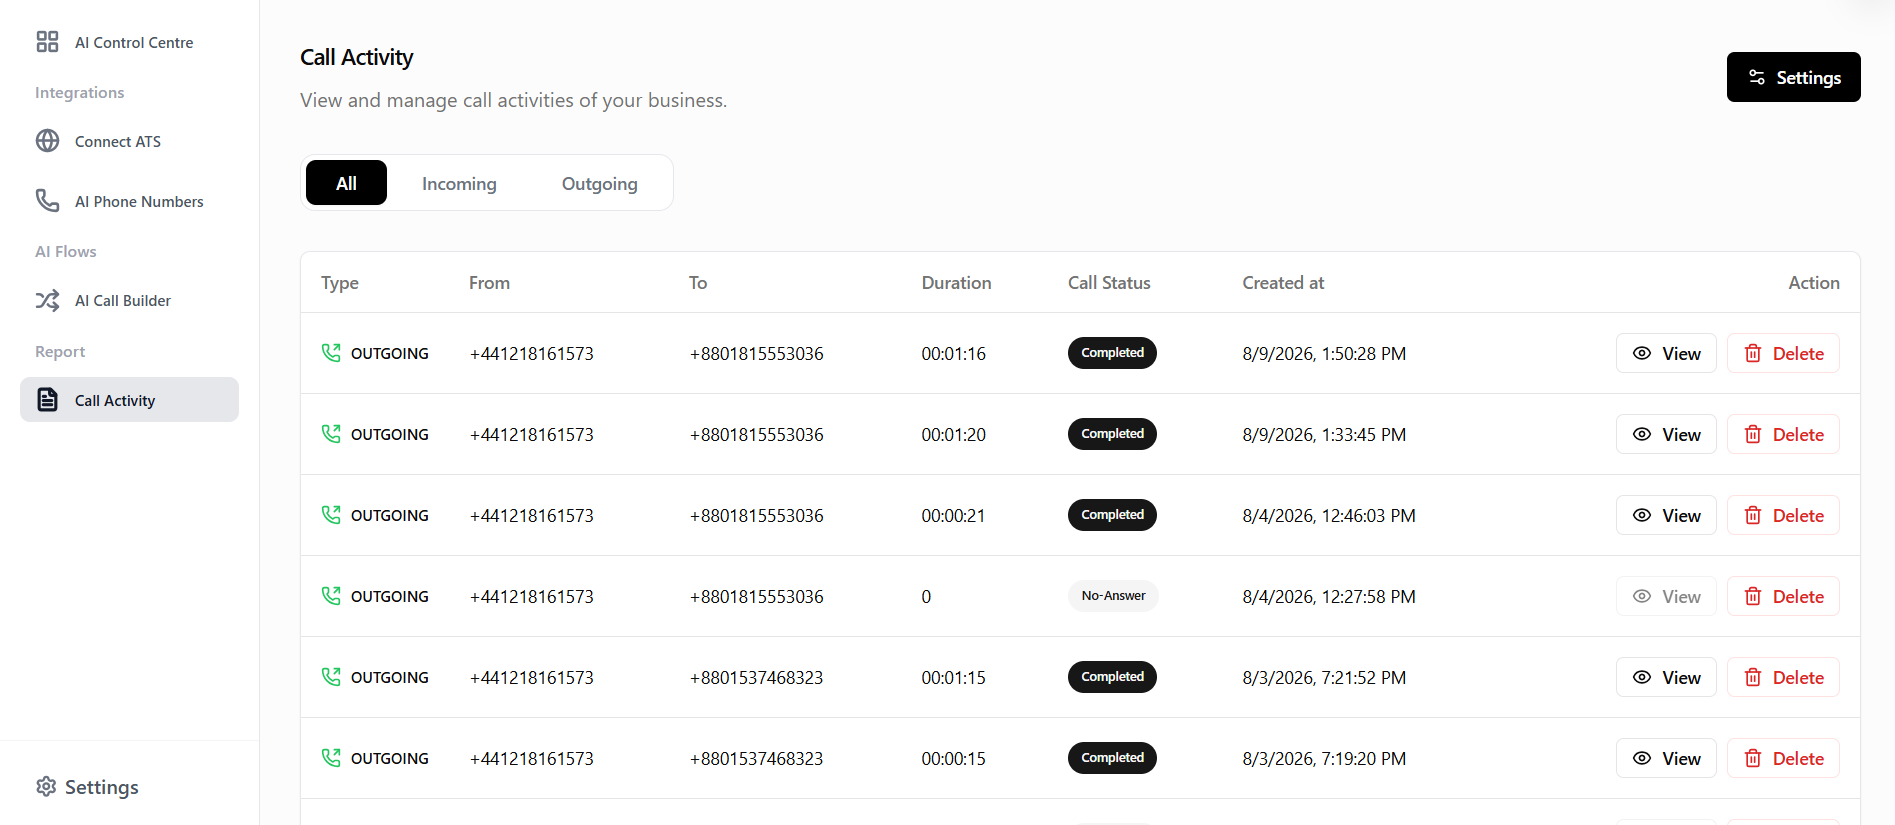
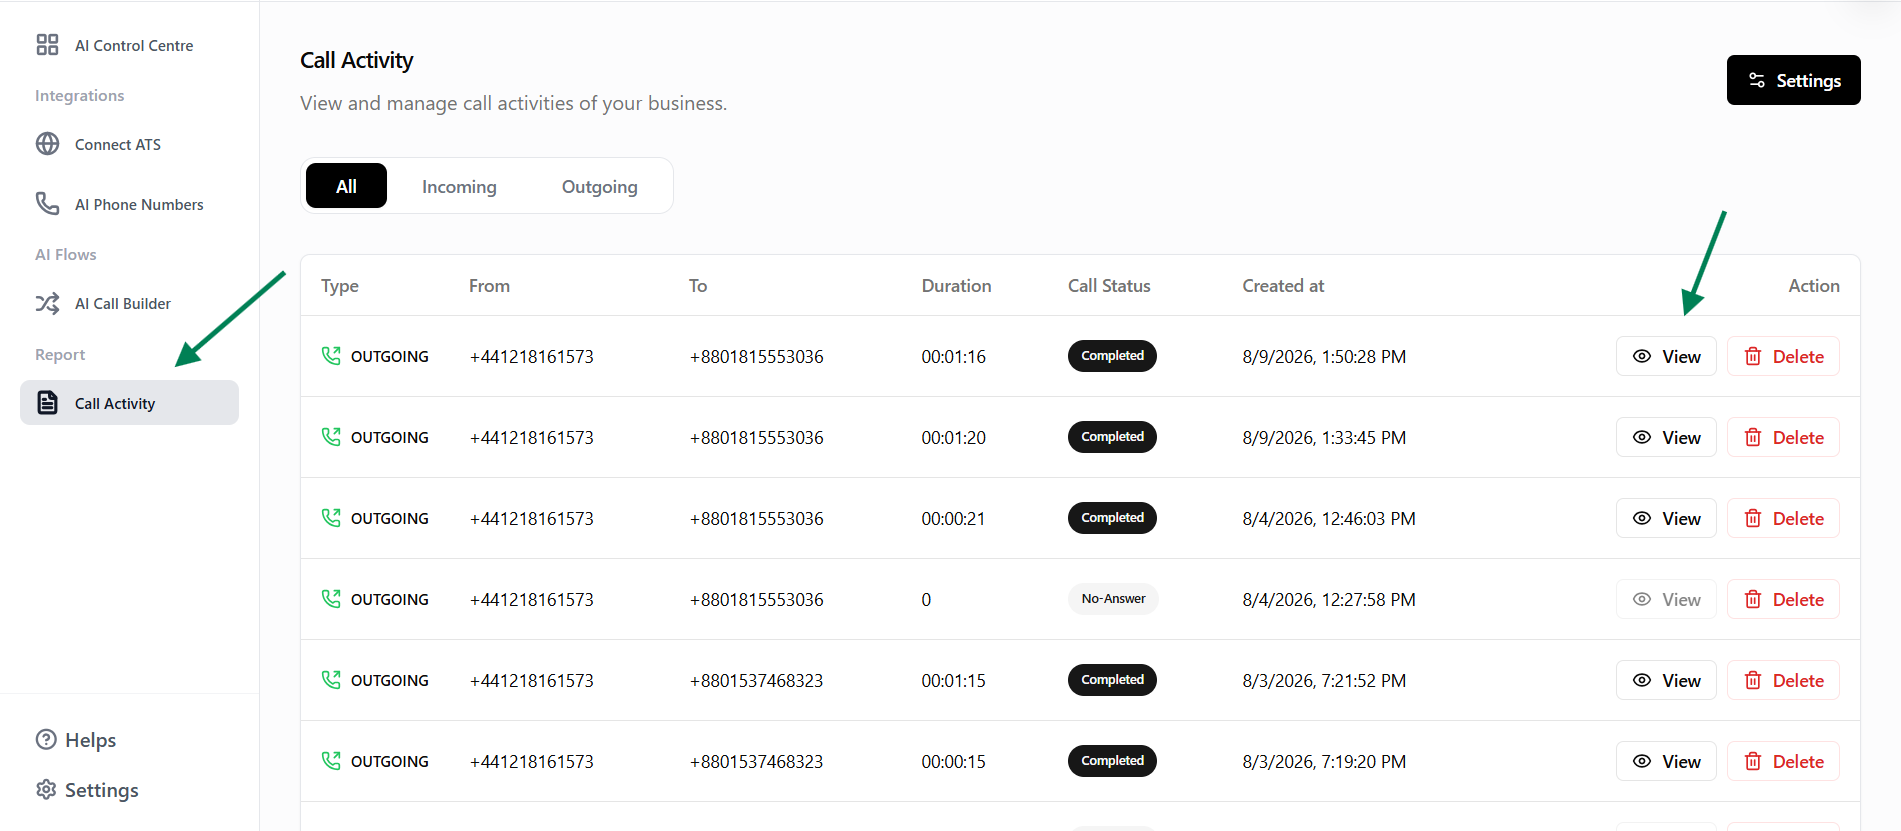
help page

diff --git a/components/helps-content.tsx b/components/helps-content.tsx
@@ -48,7 +48,6 @@ const docSections: Section[] = [
     title: "STEP 1 · Account Created",
     group: "setup",
     icon: Users,
-    needsConfirmation: true,
     blocks: [
       {
         purpose: "After you sign up for CallPilot, your account is created and you land on your dashboard to begin setup.",
@@ -238,7 +237,11 @@ const docSections: Section[] = [
           { name: "Choose a Plan", description: "Opens the subscription list to select or adjust your plan tier." },
           { name: "Navigation Tabs", description: "Switch views to see linked cards, default payment profiles, or PDF receipts." }
         ],
-        screenshots: ["/help/Account & Billing.png"]
+        screenshots: [
+          "/help/Choose Plan 1.png",
+          "/help/Choose Plan 2.png",
+          "/help/Choose Plan 3.png"
+        ]
       },
       {
         title: "Purchasing Minutes Add-on",
@@ -252,7 +255,10 @@ const docSections: Section[] = [
         actions: [
           { name: "Continue", description: "Authorizes the payment and instantly updates your minutes balance." }
         ],
-        screenshots: ["/help/Account & Billing.png"]
+        screenshots: [
+          "/help/Purchasing Minutes Add-on 1.png",
+          "/help/Purchasing Minutes Add-on 2.png",
+        ]
       }
     ]
   },
@@ -568,14 +574,11 @@ export function HelpsContent() {
     <div className="flex-1 overflow-y-auto bg-gray-50/40 dark:bg-gray-950 font-sans" ref={listContainerRef}>
       
       {/* 1. Header (Static Title Block) */}
-      <div className="relative overflow-hidden bg-white dark:bg-gray-900 border-b border-gray-200 dark:border-gray-800 py-10 px-6 sm:px-8">
+      <div className="relative overflow-hidden bg-white dark:bg-gray-900 border-b border-gray-200 dark:border-gray-800 pt-5 pb-6 px-6 sm:px-8">
         <div className="absolute top-0 right-1/4 w-96 h-96 bg-blue-500/5 rounded-full blur-3xl pointer-events-none" />
         <div className="absolute bottom-0 left-1/4 w-96 h-96 bg-purple-500/5 rounded-full blur-3xl pointer-events-none" />
         
         <div className="max-w-[960px] mx-auto relative z-10">
-          <Badge className="mb-3 bg-blue-50 dark:bg-blue-900/20 text-blue-600 dark:text-blue-400 hover:bg-blue-50 border border-blue-100 dark:border-blue-800/40 text-xs px-3 py-0.5 font-semibold rounded-full w-fit">
-            Account Setup Guide
-          </Badge>
           <h1 className="text-2xl sm:text-3xl font-extrabold text-gray-900 dark:text-white tracking-tight mb-2">
             CallPilot Setup & Help Guide
           </h1>
@@ -586,7 +589,7 @@ export function HelpsContent() {
       </div>
 
       {/* 2. Pinned/Sticky Search Input Bar */}
-      <div className="sticky top-0 z-20 bg-gray-50/90 dark:bg-gray-950/95 backdrop-blur-md border-b border-gray-200 dark:border-gray-800 py-4 px-6 sm:px-8 shadow-sm">
+      <div className="sticky top-0 z-20 bg-white dark:bg-gray-900 py-4 px-6 sm:px-8">
         <div className="max-w-[960px] mx-auto relative">
           <Search size={16} className="absolute left-4 top-1/2 -translate-y-1/2 text-gray-400 pointer-events-none" />
           <Input
@@ -609,7 +612,7 @@ export function HelpsContent() {
       </div>
 
       {/* 3. Main Accordion Content Area */}
-      <div className="max-w-[960px] mx-auto px-6 sm:px-8 py-8 space-y-8">
+      <div className="max-w-[960px] mx-auto px-6 sm:px-8 pt-3 pb-8 space-y-8">
         
         {filteredSections.length === 0 ? (
           /* Empty State */
